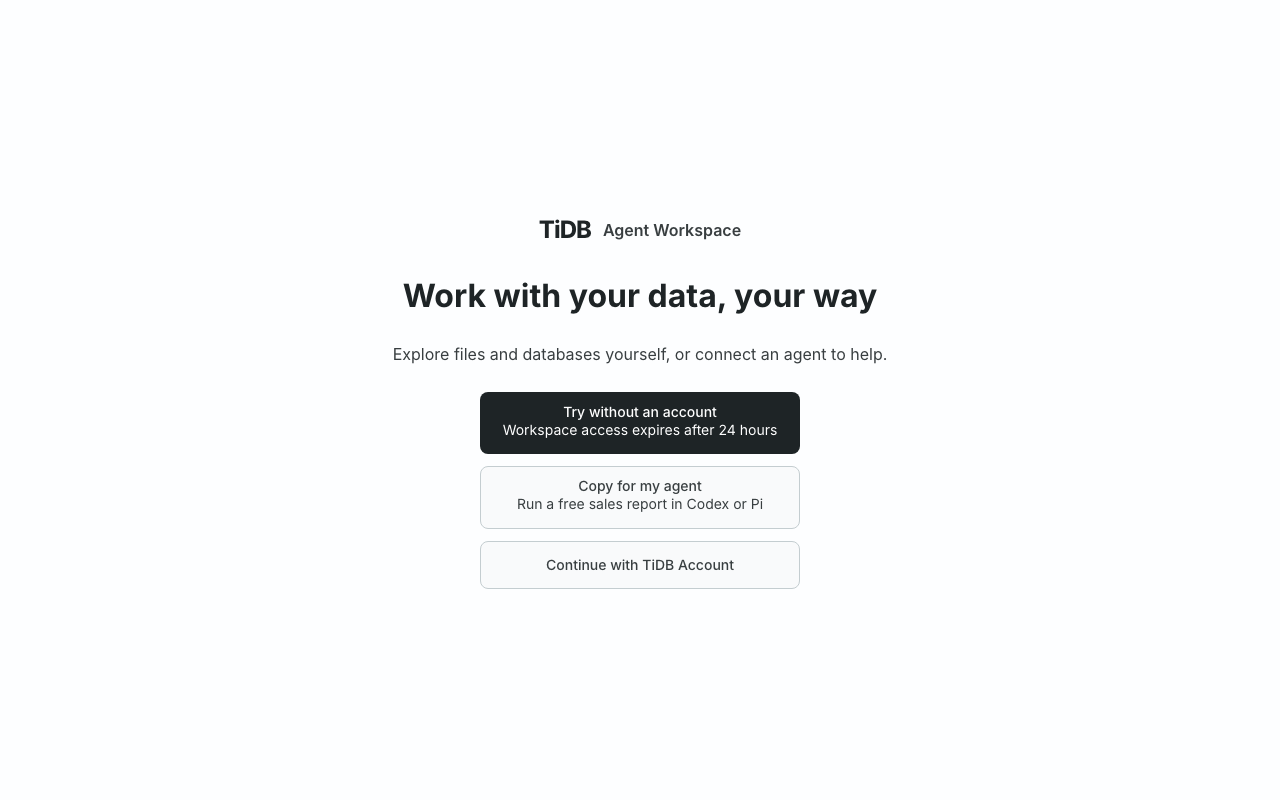
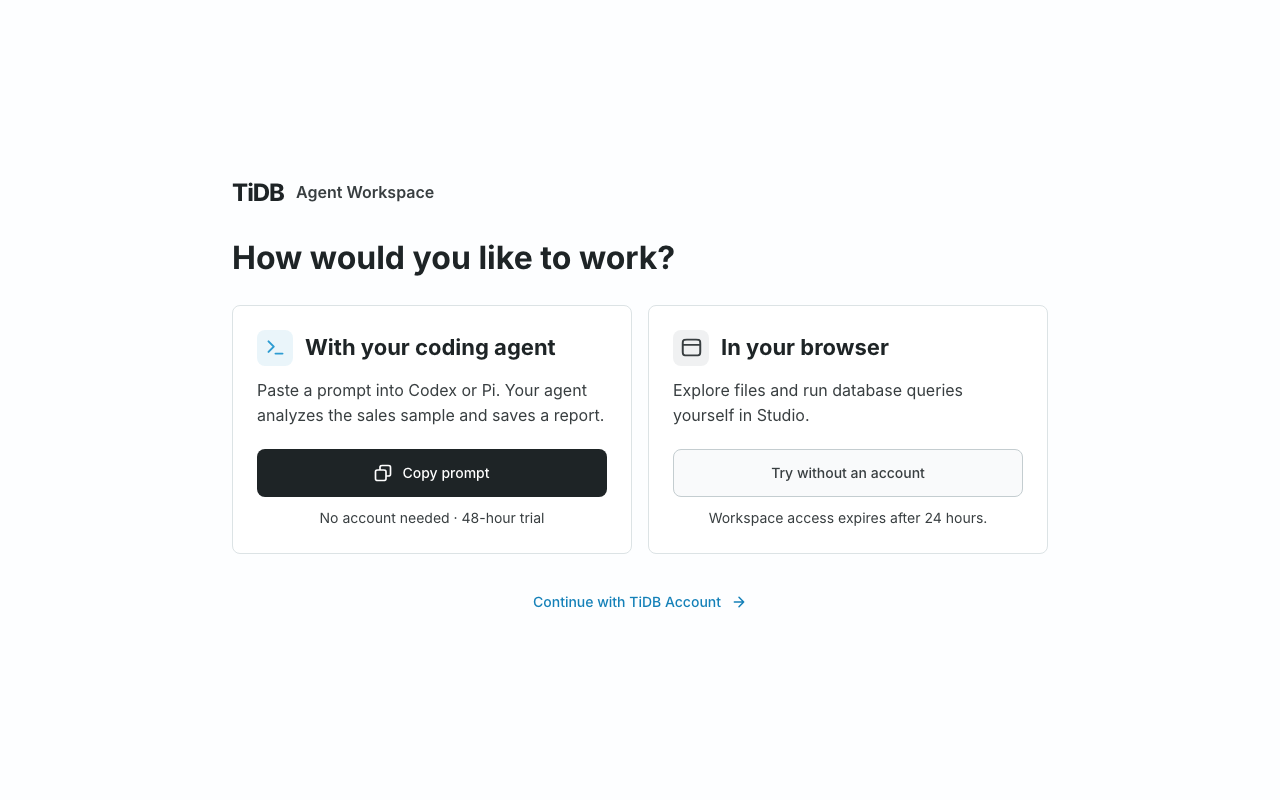
fix(studio): distinguish browser use from giving an agent a prompt

Changed region(s): [[0.1875, 0.25, 0.7812, 0.6562], [0.4062, 0.6875, 0.5938, 0.7812], [0.1875, 0.2188, 0.3438, 0.25]]

diff --git a/src/features/auth/SignInChoices.tsx b/src/features/auth/SignInChoices.tsx
@@ -1,6 +1,8 @@
-import { CopyAgentTrial } from './CopyAgentTrial';
+import { Button, Group, Paper, Stack, Text, ThemeIcon } from '@tidbcloud/uikit';
+import { IconArrowRight, IconBrowser, IconTerminal } from '@tidbcloud/uikit/icons';
+import { Heading } from '../../ui/WorkspaceHeading';
 import { capture } from '../analytics/capture';
-import { Button, Stack, Text } from '@tidbcloud/uikit';
+import { CopyAgentTrial } from './CopyAgentTrial';
 
 type SignInChoicesProps = {
   label: string;
@@ -21,9 +23,9 @@ export function SignInChoices({
 }: SignInChoicesProps) {
   const account = (
     <Button
-      fullWidth
-      size="lg"
-      variant={guestEnabled ? 'default' : 'filled'}
+      variant={guestEnabled ? 'subtle' : 'filled'}
+      c={guestEnabled ? 'peacock.8' : undefined}
+      rightSection={<IconArrowRight size={16} aria-hidden />}
       onClick={() => {
         capture({ name: 'sign_in_clicked', page: 'workspace' });
         onTiDBLogin();
@@ -33,42 +35,75 @@ export function SignInChoices({
     </Button>
   );
   return (
-    <Stack className="sign-in-choices" gap="sm">
-      {!guestEnabled && account}
-      <Button
-        fullWidth
-        size="lg"
-        variant={guestEnabled ? 'filled' : 'default'}
-        h="auto"
-        py="sm"
-        aria-label="Try without an account"
-        aria-describedby={guestEnabled ? 'guest-expiry' : 'guest-expiry guest-access-note'}
-        disabled={!guestEnabled || guestLoading}
-        loading={guestLoading}
-        onClick={() => {
-          capture({ name: 'try_clicked', page: 'workspace' });
-          onGuestLogin();
-        }}
-      >
-        <Stack component="span" gap={0} align="center">
-          <span>Try without an account</span>
-          <Text id="guest-expiry" component="span" size="sm" fw={400} c="inherit">
-            Workspace access expires after 24 hours
+    <>
+      <div className="sign-in-choices">
+        <Paper
+          component="section"
+          aria-labelledby="agent-path-title"
+          className="sign-in-path"
+          withBorder
+        >
+          <Group gap="sm" wrap="nowrap">
+            <ThemeIcon variant="light" color="peacock" size={36} radius="md" aria-hidden>
+              <IconTerminal size={21} color="var(--blue)" />
+            </ThemeIcon>
+            <div id="agent-path-title">
+              <Heading level={2}>With your coding agent</Heading>
+            </div>
+          </Group>
+          <Text component="p">
+            Paste a prompt into Codex or Pi. Your agent analyzes the sales sample and saves a
+            report.
           </Text>
-        </Stack>
-      </Button>
-      {!guestEnabled && (
-        <Text id="guest-access-note" size="sm" ta="center">
-          Trying without an account is coming soon.
-        </Text>
-      )}
-      <CopyAgentTrial />
-      {guestEnabled && account}
-      {guestError && (
-        <Text role="alert" c="red" size="sm">
-          {guestError}
-        </Text>
-      )}
-    </Stack>
+          <CopyAgentTrial />
+        </Paper>
+        <Paper
+          component="section"
+          aria-labelledby="browser-path-title"
+          className="sign-in-path"
+          withBorder
+        >
+          <Group gap="sm" wrap="nowrap">
+            <ThemeIcon variant="light" color="carbon" size={36} radius="md" aria-hidden>
+              <IconBrowser size={21} color="var(--text)" />
+            </ThemeIcon>
+            <div id="browser-path-title">
+              <Heading level={2}>In your browser</Heading>
+            </div>
+          </Group>
+          <Text component="p">Explore files and run database queries yourself in Studio.</Text>
+          <Stack className="sign-in-path-action" gap="xs">
+            {guestEnabled ? (
+              <Button
+                fullWidth
+                variant="default"
+                aria-describedby="guest-expiry"
+                disabled={guestLoading}
+                loading={guestLoading}
+                onClick={() => {
+                  capture({ name: 'try_clicked', page: 'workspace' });
+                  onGuestLogin();
+                }}
+              >
+                Try without an account
+              </Button>
+            ) : (
+              account
+            )}
+            <Text id="guest-expiry" size="sm" ta="center">
+              {guestEnabled
+                ? 'Workspace access expires after 24 hours.'
+                : 'Guest access is currently unavailable.'}
+            </Text>
+            {guestError && (
+              <Text role="alert" c="red" size="sm">
+                {guestError}
+              </Text>
+            )}
+          </Stack>
+        </Paper>
+      </div>
+      {guestEnabled && <Group justify="center">{account}</Group>}
+    </>
   );
 }

diff --git a/src/features/auth/CopyAgentTrial.tsx b/src/features/auth/CopyAgentTrial.tsx
@@ -1,5 +1,6 @@
 import { useState } from 'react';
 import { Button, Stack, Text, Textarea } from '@tidbcloud/uikit';
+import { IconCheck, IconCopy03 } from '@tidbcloud/uikit/icons';
 
 const trialInstruction =
   'Follow the official Drive9 skill at https://drive9.ai/studio/skills/drive9-workspace/SKILL.md to find the top US state by sales in the public sample, show the calculation, and save a report I can continue in this project using only the free trial.';
@@ -7,15 +8,17 @@ const trialInstruction =
 export function CopyAgentTrial() {
   const [result, setResult] = useState<'idle' | 'copied' | 'manual'>('idle');
   return (
-    <>
+    <Stack className="sign-in-path-action" gap="xs">
       <Button
         fullWidth
-        size="lg"
-        variant="default"
-        h="auto"
-        py="sm"
-        aria-label="Copy for my agent"
-        aria-describedby="agent-report-description"
+        variant="filled"
+        leftSection={
+          result === 'copied' ? (
+            <IconCheck size={18} aria-hidden />
+          ) : (
+            <IconCopy03 size={18} aria-hidden />
+          )
+        }
         onClick={async () => {
           try {
             await navigator.clipboard.writeText(trialInstruction);
@@ -25,27 +28,22 @@ export function CopyAgentTrial() {
           }
         }}
       >
-        <Stack component="span" gap={0} align="center">
-          <span>Copy for my agent</span>
-          <Text id="agent-report-description" component="span" size="sm" fw={400} c="inherit">
-            Run a free sales report in Codex or Pi
-          </Text>
-        </Stack>
+        Copy prompt
       </Button>
-      {result === 'copied' && (
-        <Text size="sm" ta="center" role="status">
-          Copied. Paste into Codex or Pi in your project.
-        </Text>
-      )}
       {result === 'manual' && (
         <Textarea
-          label="Copy this instruction into Codex or Pi"
+          label="Select and copy the prompt into Codex or Pi"
           readOnly
           autosize
           value={trialInstruction}
           onFocus={(event) => event.currentTarget.select()}
         />
       )}
-    </>
+      <Text size="sm" ta="center" role="status">
+        {result === 'copied'
+          ? 'Copied. Paste into Codex or Pi in your project.'
+          : 'No account needed · 48-hour trial'}
+      </Text>
+    </Stack>
   );
 }

diff --git a/src/App.tsx b/src/App.tsx
@@ -501,22 +501,19 @@ function App() {
         {sso.label || 'Continue with TiDB Account'}
       </Button>
     ) : null;
-  if (!data)
+  if (!data) {
+    const showSignIn = error && sso.enabled && needsSignIn;
     return (
-      <div className="loading-screen">
+      <main className={showSignIn ? 'loading-screen sign-in-screen' : 'loading-screen'}>
         <div className="sign-in-brand">
           <span className="brand-mark">TiDB</span>{' '}
           <Text span fw={600}>
             Agent Workspace
           </Text>
         </div>
-        {error && sso.enabled && needsSignIn ? (
-          // SSO is enabled and no session is active yet: prompt sign-in (no anonymous demo).
+        {showSignIn ? (
           <>
-            <Heading level={1}>Work with your data, your way</Heading>
-            <Text component="p">
-              Explore files and databases yourself, or connect an agent to help.
-            </Text>
+            <Heading level={1}>How would you like to work?</Heading>
             {sso.loginPath && (
               <SignInChoices
                 label={sso.label || 'Continue with TiDB Account'}
@@ -544,8 +541,9 @@ function App() {
             {ssoButton}
           </>
         )}
-      </div>
+      </main>
     );
+  }
   return (
     <TutorialProgressProvider
       key={data.workspace.id}

diff --git a/src/styles.css b/src/styles.css
@@ -351,8 +351,43 @@ small {
   gap: 24px;
   padding: 24px;
 }
+.sign-in-screen {
+  width: min(100%, 54rem);
+  margin-inline: auto;
+  align-items: stretch;
+}
+.sign-in-screen h1 {
+  text-wrap: balance;
+}
 .sign-in-choices {
-  width: min(100%, 320px);
+  display: grid;
+  grid-template-columns: repeat(2, minmax(0, 1fr));
+  gap: 16px;
+}
+.sign-in-path {
+  min-width: 0;
+  display: flex;
+  flex-direction: column;
+  gap: 12px;
+  padding: 24px;
+}
+.sign-in-path-action {
+  margin-top: auto;
+  padding-top: 8px;
+}
+@media (max-width: 44rem) {
+  .sign-in-screen {
+    width: min(100%, 31rem);
+    padding: 24px 16px;
+    gap: 16px;
+  }
+  .sign-in-choices {
+    grid-template-columns: minmax(0, 1fr);
+    gap: 12px;
+  }
+  .sign-in-path {
+    padding: 18px;
+  }
 }
 .workspace-toast {
   position: fixed;

diff --git a/docs/standards/product-experience.md b/docs/standards/product-experience.md
@@ -80,6 +80,11 @@ perform real operations. Show the 24-hour access limit with the action without r
 Explain the actual consequence of signing out before ending a Guest session; do not promise
 cleanup that the service has not implemented.
 
+On the signed-out Studio page, present the two places a person can work. For the agent path,
+name the human action (copy and paste the prompt) and the agent outcome (analyze the sample
+and save a report). Group browser actions with the browser path and distinguish account sign-in
+from the two ways to try Studio.
+
 **People and agent onboarding (owner direction, 2026-11-03):** a Guest can explore the US sales
 sample and obtain a real read-only analysis without installing an agent or creating a key. Offer a
 separate agent path using the same saved sample. An agent's durable, inspectable report and a

diff --git a/docs/api-guide.md b/docs/api-guide.md
@@ -203,4 +203,4 @@ addressable `/resources/{id}/setup-attempts` resource with explicit idempotency;
 Resource deletion may return 202; inspect Location and `deletion.phase`. Acceptance does not
 claim physical erasure and provider-specific unsupported deletion stays explicit.
 
-For an account-free public US sales report in Codex or Pi, use **Copy for my agent** on the Studio sign-in page. The local trial and its recovery boundaries are described in [ADR 0052](decisions/0052-anonymous-agent-report.md).
+For an account-free public US sales report in Codex or Pi, choose **With your coding agent → Copy prompt** on the Studio sign-in page and paste it into your project chat. The local trial and its recovery boundaries are described in [ADR 0052](decisions/0052-anonymous-agent-report.md).
